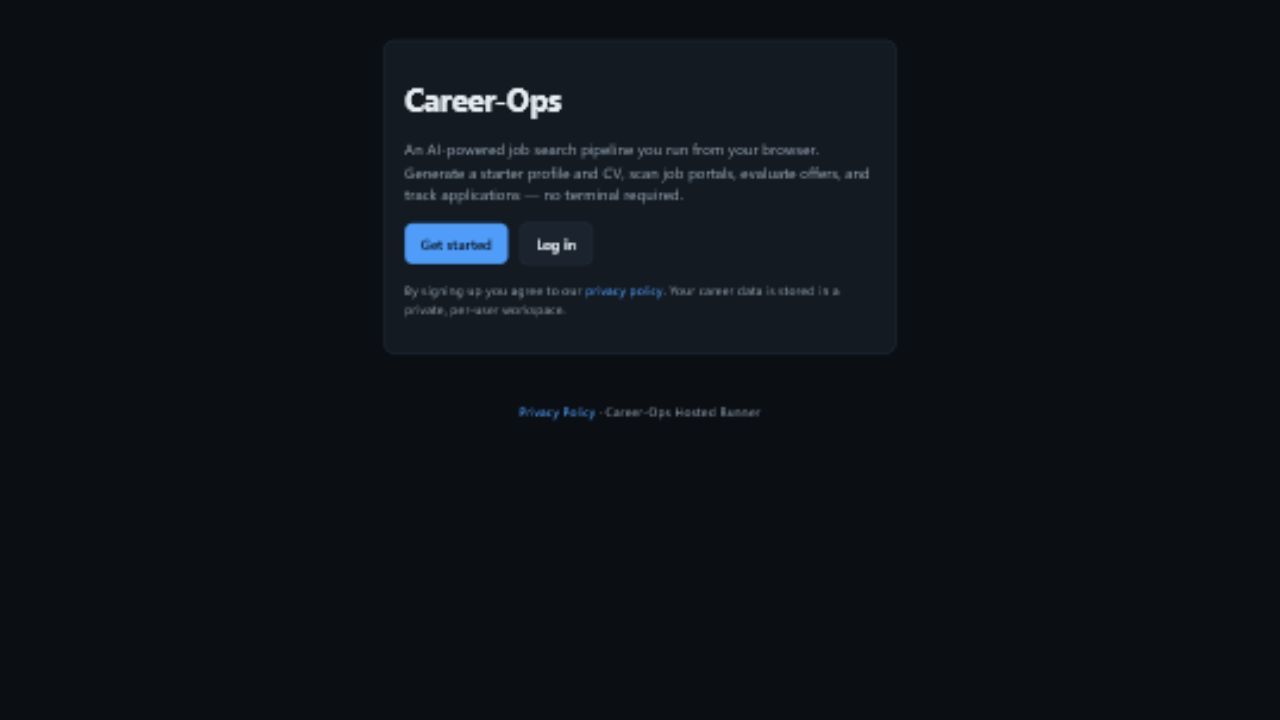
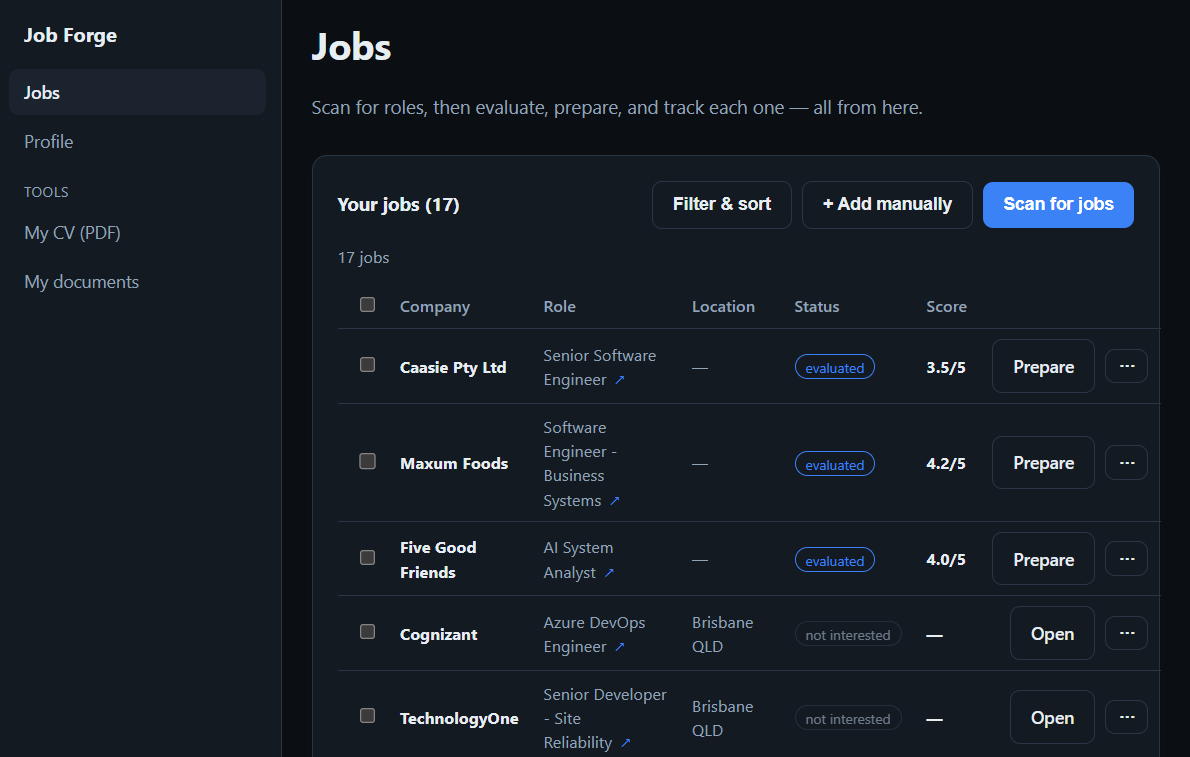
Rename Jobs AI to Job Forge, update preview image and URL, center preview images when they don't fill the frame

diff --git a/index.html b/index.html
@@ -290,16 +290,15 @@
     }
 
     .phone-screen.has-image {
-      background: #fffdf8;
-      align-items: stretch;
-      justify-content: stretch;
+      align-items: center;
+      justify-content: center;
     }
 
     .phone-image {
       width: 100%;
       height: 100%;
       object-fit: contain;
-      object-position: top center;
+      object-position: center center;
       display: block;
     }
 
@@ -353,15 +352,15 @@
     }
 
     .thumb.has-image {
-      align-items: stretch;
-      justify-content: stretch;
-      background: #fffdf8;
+      align-items: center;
+      justify-content: center;
     }
 
     .thumb-image {
       width: 100%;
       height: 100%;
       object-fit: contain;
+      object-position: center center;
       display: block;
       filter: none;
       image-rendering: auto;
